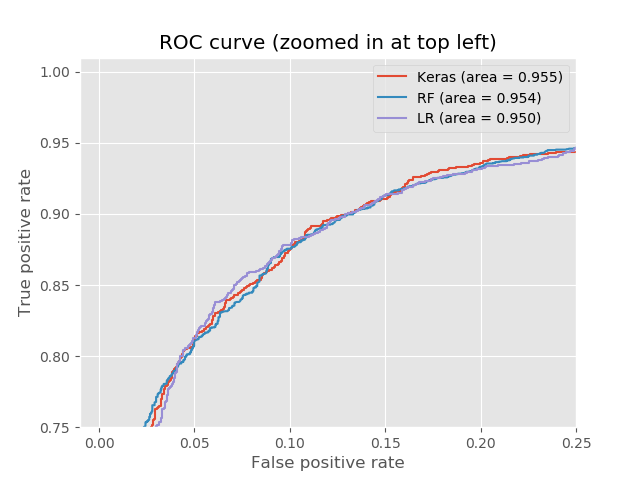
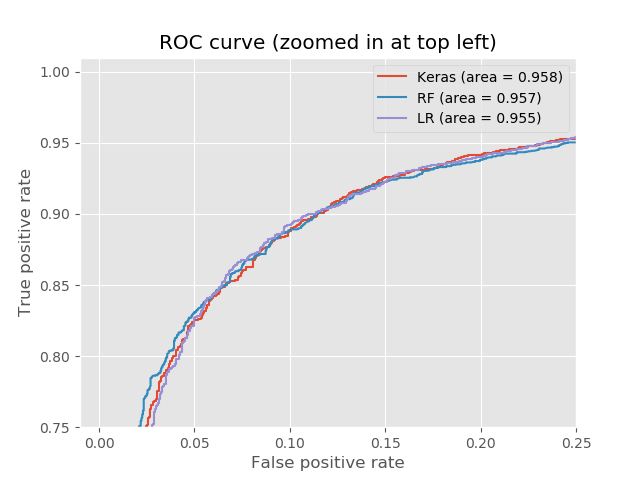
Updated Graphs

Changed region(s): [[0.2188, 0.2812, 0.9062, 0.9062], [0.8125, 0.1875, 0.8438, 0.25], [0.8438, 0.1562, 0.875, 0.1875]]

diff --git a/Model Evaluation/ModelEval.py b/Model Evaluation/ModelEval.py
@@ -1,7 +1,6 @@
 from keras.optimizers import SGD
 from keras.models import Sequential
 from keras.layers import Dense
-import numpy
 import pandas
 import matplotlib.pyplot as plt
 
@@ -78,7 +77,8 @@ data = data_csv.values
 
 ####################
 #shuffle data
-numpy.random.shuffle(data)
+np.random.seed(123456)
+np.random.shuffle(data)
 
 #split into testing / training
 #currently 70 - 30 split
@@ -95,12 +95,13 @@ Y_TRAINING = data_TRAINING[:, last_column_index]    #occupied (0 or 1)
 X_TESTING  = data_TESTING [:, :last_column_index]   #all features
 Y_TESTING  = data_TESTING [:, last_column_index]    #classes
 
-#Train ANN and LR
-#testing_options = ANN_Options('elu', 12, 3, 32, 0.1)
-testing_options = ANN_Options('relu', 6, 3, 32, 0.05)
+#---------- Start Model Evaluation & Comparision ----------
+#Train ANN, LR, and RF
+#testing_options = ANN_Options('elu', 12, 3, 32, 0.1) #Old dataset settings
+#testing_options = ANN_Options('relu', 6, 3, 32, 0.05) #New dataset settings
+testing_options = ANN_Options('elu', 9, 3, 32, 0.01)
 print("Training: " + testing_options.writeToFile())
 results = BuildAnn(X_TRAINING, Y_TRAINING, X_TESTING, Y_TESTING, testing_options, verbose=True)
-history = results[4]    #gathers loss and accuracy over the training process
 model = results[5]
 
 print("")
@@ -109,28 +110,25 @@ print("Training loss: ", results[0])
 print("Training accuracy: ", results[1])
 print("Testing loss: ", results[2])
 print("Testing accuracy: ", results[3])
-
+#Train Logistic Regression
 mod = linear_model.LogisticRegression(solver="sag",max_iter=3000)
 LR_model = mod.fit(X_TRAINING,Y_TRAINING)
 print("")
 print("-----LR-----")
 print("Testing Accuracy: ", LR_model.score(X_TESTING, Y_TESTING))
-
-# Supervised transformation based on random forests
+#Supervised transformation based on random forests
 rf = RandomForestClassifier(max_depth=10, n_estimators=100)
 rf.fit(X_TRAINING, np.ravel(Y_TRAINING))
-
 print("")
 print("-----RF-----")
 print("Testing Accuracy: ", rf.score(X_TESTING, Y_TESTING))
-
 #Plot ROC and PR curves
 plt.style.use('ggplot')
-
+#Determine TP and FP rate and AUC for each model
 y_predict_prob = LR_model.predict_proba(X_TESTING)[:,1]
 fpr_lr, tpr_lr, _ = roc_curve(Y_TESTING, y_predict_prob)
 auc_lr = auc(fpr_lr, tpr_lr)
-
+#Determine Precision and Recall for each model
 prec_lr, rec_lr, _ = precision_recall_curve(Y_TESTING, y_predict_prob)
 auc_lr_pr = auc(rec_lr, prec_lr)
 
